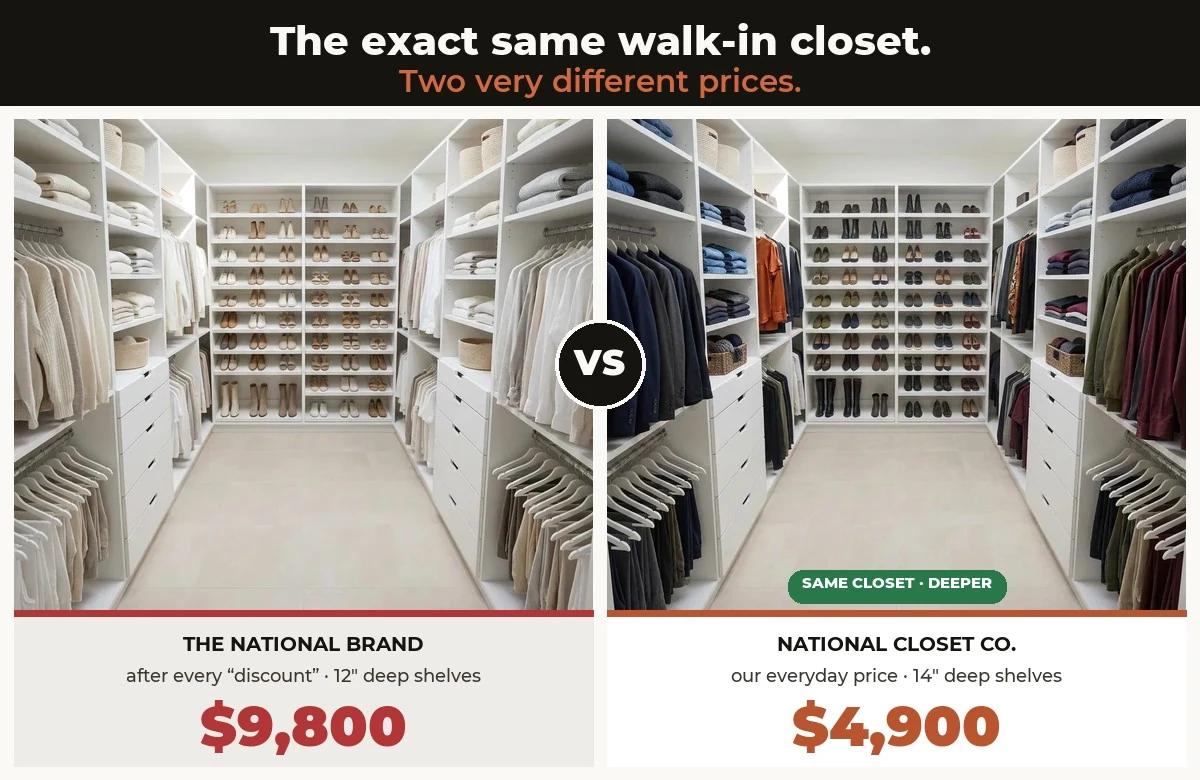
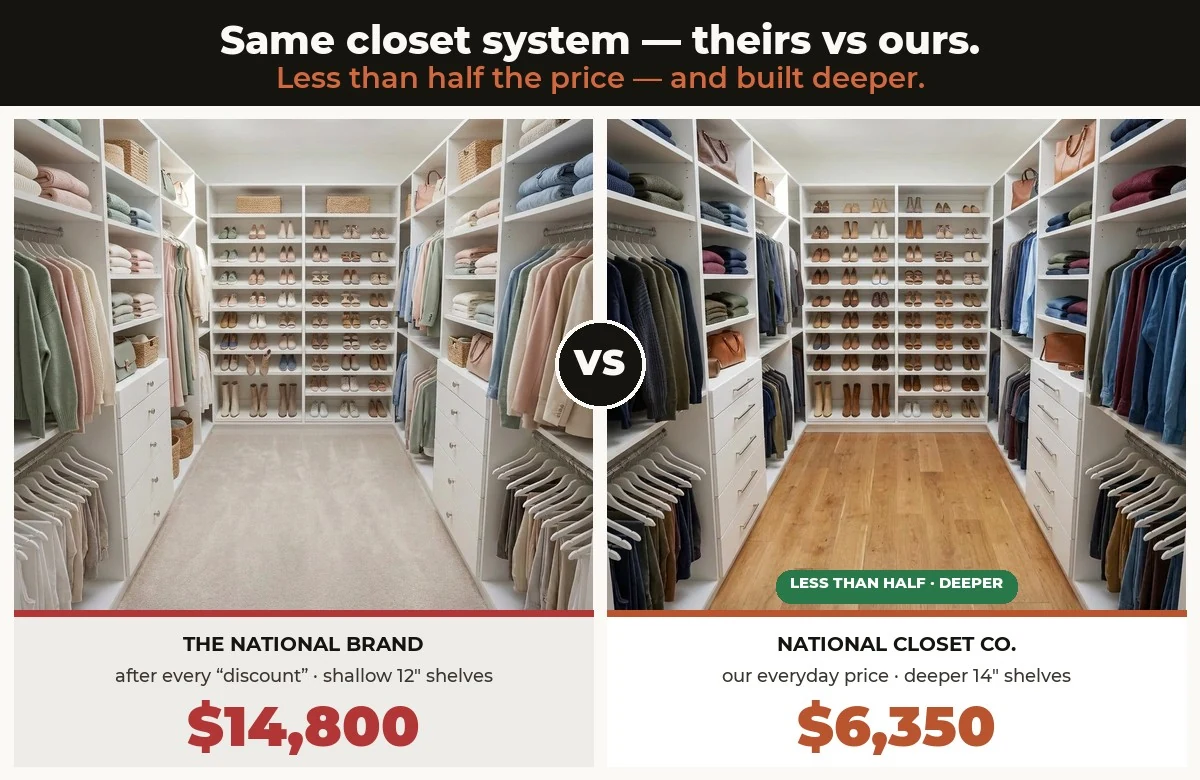
Fake-discounts: consolidate discount FAQ + new comparison image ($14,800 vs $6,350)
- Homepage FAQ: merged the duplicate discount FAQs into one 'Do you offer
  discounts or run sales?' — acknowledges an honest coupon, calls out the fake
  National-Price scheme, notes 14in vs 12in depth (removed the dup schema+visible)
- New comparison image: two visibly different closets, same white-melamine layout
  — theirs on carpet w/ round knobs, pastel wardrobe, shallow-overhanging 12in
  shelves at $14,800; ours on hardwood w/ bar pulls, different wardrobe, deeper
  14in shelves at $6,350. Updated figure alt/caption

diff --git a/index.html b/index.html
@@ -829,7 +829,7 @@ h1, h2, h3, h4 { font-family: var(--display); font-weight: 800; line-height: 1.0
   "@type": "FAQPage",
   "mainEntity": [
     { "@type": "Question", "name": "Are you a franchise?", "acceptedAnswer": { "@type": "Answer", "upvoteCount": 0, "text": "No, and that saves you money. National Closet Company is 100% family owned and operated, not a franchise. You are not paying franchise royalties, national advertising fees or an overpriced brand name, only premium materials and expert craftsmanship. It is the same caliber of custom closets the big franchise showrooms sell, at an honest, transparent price." } },
-    { "@type": "Question", "name": "Do you offer discounts or run sales?", "acceptedAnswer": { "@type": "Answer", "upvoteCount": 0, "text": "No, and that's on purpose. The national closet companies quote you a big number, then \"find\" 40% off if you sign tonight. That discount was never real \u2014 it was baked into the price so it could be handed back to you as a favor. We'd rather skip the theater. The price we quote is the price we can do the work for, the first time you see it. No countdown, no manager to call, no sale to wait for." } },
+    { "@type": "Question", "name": "Do you offer discounts or run sales?", "acceptedAnswer": { "@type": "Answer", "upvoteCount": 0, "text": "We may run a straightforward, honest coupon or promotion now and then \u2014 but we don't play the inflated 'National Price, then 40% off if you sign tonight' game the national brands do. Their discount was never real; it was baked into the price so it could be handed back as a favor. We price the job once, honestly, for the same closet system, and our everyday price often lands around half of a national brand's discounted, book-now price \u2014 on a closet we quote deeper, with 14-inch shelves versus their 12-inch. No inflated list price, no countdown, no manager to call, no sale to wait for." } },
     { "@type": "Question", "name": "How much does a custom closet cost?", "acceptedAnswer": { "@type": "Answer", "upvoteCount": 0, "text": "Custom closets typically cost between about $1,000 and $10,000 or more, with a national average around $2,000. A custom reach-in closet system usually runs $1,000–$2,500, a walk-in closet $3,000–$10,000+, and large luxury closets can go higher depending on size, materials and accessories. National Closet Company gives you an exact, no-obligation price at your free in-home consultation, never an estimate that changes later." } },
     { "@type": "Question", "name": "Do I have to remove my old shelving and paint first?", "acceptedAnswer": { "@type": "Answer", "upvoteCount": 0, "text": "Only if you want to. National Closet Company gives you two quotes. With Option 1, you remove the existing shelving, patch the holes and paint, and we design, build and install your new closet, which is the most budget-friendly route. With Option 2, the turnkey option, you simply empty the space of your belongings and we handle everything else: removing the old shelving, patching and repairing the walls, painting, then building and installing your new closet. Most closet companies only offer Option 1, but we give you both." } },
     { "@type": "Question", "name": "Are custom closets worth it?", "acceptedAnswer": { "@type": "Answer", "upvoteCount": 0, "text": "For most homeowners, yes. A custom closet uses every inch of the room and often doubles usable storage compared with a basic builder closet, keeping you organized for years. It costs more up front than a wire kit, but the furniture-grade materials, lifetime use and everyday convenience make custom closets well worth it if you value storage and a clutter-free home." } },
@@ -839,7 +839,6 @@ h1, h2, h3, h4 { font-family: var(--display); font-weight: 800; line-height: 1.0
     { "@type": "Question", "name": "What materials do you use for custom closets?", "acceptedAnswer": { "@type": "Answer", "upvoteCount": 0, "text": "We build with premium, furniture-grade materials, durable laminate and thermally-fused melamine over engineered wood, chosen for strength, easy cleaning and a high-end finish. You choose from dozens of colors and finishes, from crisp whites to warm woodgrains, along with soft-close drawers, glass fronts, lighting and other accessories. Everything is built to handle daily use for the long haul." } },
     { "@type": "Question", "name": "How long does it take to design and install a custom closet?", "acceptedAnswer": { "@type": "Answer", "upvoteCount": 0, "text": "From start to finish, most custom closets take about 3 to 6 weeks. Design happens at your free in-home consultation, custom manufacturing typically takes 2 to 4 weeks, and professional installation of a standard closet is usually finished in a single day with minimal disruption to your home." } },
     { "@type": "Question", "name": "Do you require a deposit, and do you offer financing or buy now, pay later?", "acceptedAnswer": { "@type": "Answer", "upvoteCount": 0, "text": "Yes to both. Your project is paid in three steps: 50% at signing, which releases your order to our manufacturing partners, 25% once your materials arrive and we schedule your installation, and the final 25% on install day. You can also pay in full at any time. You can Buy Now, Pay Later with Klarna — including a 0% interest option — and split your project into flexible payments at checkout, subject to Klarna approval, and we accept all major credit and debit cards, bank transfer and digital wallets like Apple Pay and Google Pay. Ask your designer about the easiest way to fit a custom closet into your budget." } },
-    { "@type": "Question", "name": "Do you run big '40% off' sales like the national brands?", "acceptedAnswer": { "@type": "Answer", "upvoteCount": 0, "text": "Not the inflated-markup kind. We may run a straightforward, honest coupon or promotion now and then, but we don't play the 'National Price, then 60 to 100% off' game. The national brands stack discounts — 40% off, then another 15%, then a book-tonight bonus — on a price that was marked up around 300% first, so the closet still ends up costing about double. We price the job once, honestly, for the same closet system, and our everyday price often lands around half of a national brand's discounted, book-now price — on a closet we quote deeper, with 14-inch shelves versus their 12-inch. No inflated list price, no countdown, no pressure." } },
     { "@type": "Question", "name": "Do you build more than closets?", "acceptedAnswer": { "@type": "Answer", "upvoteCount": 0, "text": "Yes. Besides custom walk-in and reach-in closets, we design and install garage storage systems, custom pantries, home offices, laundry rooms and mudrooms, Murphy and wall beds, and media and wall units, all built and installed by the same team." } },
     { "@type": "Question", "name": "Is there a custom closet company near me? What areas do you serve?", "acceptedAnswer": { "@type": "Answer", "upvoteCount": 0, "text": "National Closet Company designs and installs custom closets and storage systems throughout Middle Tennessee, serving every city within about 90 miles of Gallatin, TN. That includes Nashville, Franklin, Brentwood, Hendersonville, Mount Juliet, Murfreesboro, Gallatin, Lebanon, Smyrna, Nolensville, Spring Hill, Belle Meade, Goodlettsville, White House, Portland, La Vergne, Green Hills, Hermitage, Old Hickory, Columbia, Springfield, Clarksville, Dickson, Cookeville and Shelbyville, plus Bowling Green, KY, and the surrounding communities. See the full list at https://nationalclosetco.com/service-areas, or call or text 629-298-8241 to confirm your city and book a free in-home consultation." } },
     { "@type": "Question", "name": "Do you offer a free in-home consultation?", "acceptedAnswer": { "@type": "Answer", "upvoteCount": 0, "text": "Yes. Every project starts with a 100% free, no-pressure in-home consultation. Your designer measures your space in person, walks through your options and finishes, and gives you a photorealistic design with transparent pricing on the spot. We measure in person, not virtually, for a perfect fit." } },
@@ -1576,7 +1575,7 @@ src="https://www.facebook.com/tr?id=904015652453670&ev=PageView&noscript=1"
         </div>
         <div class="faq__item">
           <button class="faq__q" aria-expanded="false">Do you offer discounts or run sales?<span class="faq__icon" aria-hidden="true"></span></button>
-          <div class="faq__a"><div class="faq__a-inner">No, and that&rsquo;s on purpose. The national closet companies quote you a big number, then &ldquo;find&rdquo; 40% off if you sign tonight. <strong>That discount was never real</strong> &mdash; it was baked into the price so it could be handed back to you as a favor. We&rsquo;d rather skip the theater. The price we quote is <strong>the price we can do the work for, the first time you see it</strong>. No countdown, no manager to call, no sale to wait for.</div></div>
+          <div class="faq__a"><div class="faq__a-inner">We may run a <strong>straightforward, honest coupon or promotion</strong> now and then — but we don&rsquo;t play the inflated &ldquo;National Price, then 40% off if you sign tonight&rdquo; game the national brands do. <strong>That discount was never real</strong> &mdash; it was baked into the price so it could be handed back as a favor. We price the job <strong>once, honestly</strong>, for the same closet system, and our everyday price often lands around <strong>half of a national brand&rsquo;s discounted, book-now price</strong> — on a closet we quote <strong>deeper (14&Prime; shelves vs their 12&Prime;)</strong>. No inflated list price, no countdown, no manager to call, no sale to wait for. <a href="/blog/fake-discounts-65-percent-off">See how the fake-discount game works →</a></div></div>
         </div>
         <div class="faq__item">
           <button class="faq__q" aria-expanded="false">How much does a custom closet cost?<span class="faq__icon" aria-hidden="true"></span></button>
@@ -1605,10 +1604,6 @@ src="https://www.facebook.com/tr?id=904015652453670&ev=PageView&noscript=1"
         <div class="faq__item">
           <button class="faq__q" aria-expanded="false">Do you require a deposit, and do you offer financing or buy now, pay later?<span class="faq__icon" aria-hidden="true"></span></button>
           <div class="faq__a"><div class="faq__a-inner">Yes to both. Your project is paid in three steps: <strong>50% at signing</strong>, which releases your order to our manufacturing partners, <strong>25% once your materials arrive</strong> and we schedule your installation, and the final <strong>25% on install day</strong> — or you can pay in full at any time. You can also <strong>Buy Now, Pay Later with Klarna</strong> — including a <strong>0% interest option</strong> — and split your project into flexible payments at checkout, subject to Klarna approval, and we accept all major credit and debit cards, bank transfer and digital wallets like Apple&nbsp;Pay and Google&nbsp;Pay. Ask your designer about the easiest way to fit a custom closet into your budget.</div></div>
-        </div>
-        <div class="faq__item">
-          <button class="faq__q" aria-expanded="false">Do you run big &ldquo;40% off&rdquo; sales like the national brands?<span class="faq__icon" aria-hidden="true"></span></button>
-          <div class="faq__a"><div class="faq__a-inner">Not the inflated-markup kind. We may run a <strong>straightforward, honest coupon or promotion</strong> now and then — but we don't play the &ldquo;National Price, then 60 to 100% off&rdquo; game. The national brands <strong>stack discounts</strong> (40% off, then another 15%, then a &ldquo;book-tonight&rdquo; bonus) on a price they marked up first, so the closet still ends up costing about <strong>double</strong>. We price the job <strong>once, honestly</strong>, for the same closet system — and our everyday price often lands around <strong>half of a national brand's discounted, book-now price</strong>, on a closet we quote <strong>deeper (14&Prime; shelves vs their 12&Prime;)</strong>. No inflated list price, no countdown, no pressure. <a href="/blog/fake-discounts-65-percent-off">See how the fake-discount game works →</a></div></div>
         </div>
         <div class="faq__item">
           <button class="faq__q" aria-expanded="false">Do you build wall-mounted (floating) or floor-based closets?<span class="faq__icon" aria-hidden="true"></span></button>

diff --git a/blog/fake-discounts-65-percent-off.html b/blog/fake-discounts-65-percent-off.html
@@ -150,7 +150,7 @@ src="https://www.facebook.com/tr?id=904015652453670&ev=PageView&noscript=1"
 <section class="section section--tight">
   <div class="wrap">
     <div class="prose">
-      <figure><img src="/img/blog-no-fake-discounts.webp" alt="The exact same all-white melamine walk-in closet shown twice — a national brand's post-discount price of $9,800 with 12-inch shelves on the left, and National Closet Company's everyday price of $4,900 for the identical closet with deeper 14-inch shelves on the right" width="1200" height="780" /><figcaption>The exact same white-melamine walk-in closet: a national brand's price after every &ldquo;discount&rdquo; — and our everyday price for the identical closet, built <strong>deeper</strong> at 14&Prime; vs their 12&Prime;.</figcaption></figure>
+      <figure><img src="/img/blog-no-fake-discounts.webp" alt="Two all-white melamine walk-in closets built to the same layout — a national brand's on carpet with shallow 12-inch shelves priced $14,800 after discounts, and National Closet Company's on hardwood with deeper 14-inch shelves at our everyday $6,350" width="1200" height="780" /><figcaption>The same closet system, built two ways: the national brand's — carpet, shallow 12&Prime; shelves — at <strong>$14,800</strong> after every &ldquo;discount,&rdquo; and ours — hardwood, <strong>deeper 14&Prime; shelves</strong> — at our everyday <strong>$6,350</strong>. Same layout, less than half the price.</figcaption></figure>
 
       <p>Every homeowner shopping for a custom closet runs into the same performance. You sit down for a quote, you hear a number that makes your stomach drop, and then — right on cue — the discounts begin. First it's <strong>40% off</strong>. Then the salesperson finds another <strong>15%</strong>. And then comes the closer: sign <em>tonight</em>, and there's another <strong>10 to 20%</strong> on top.</p>
 
